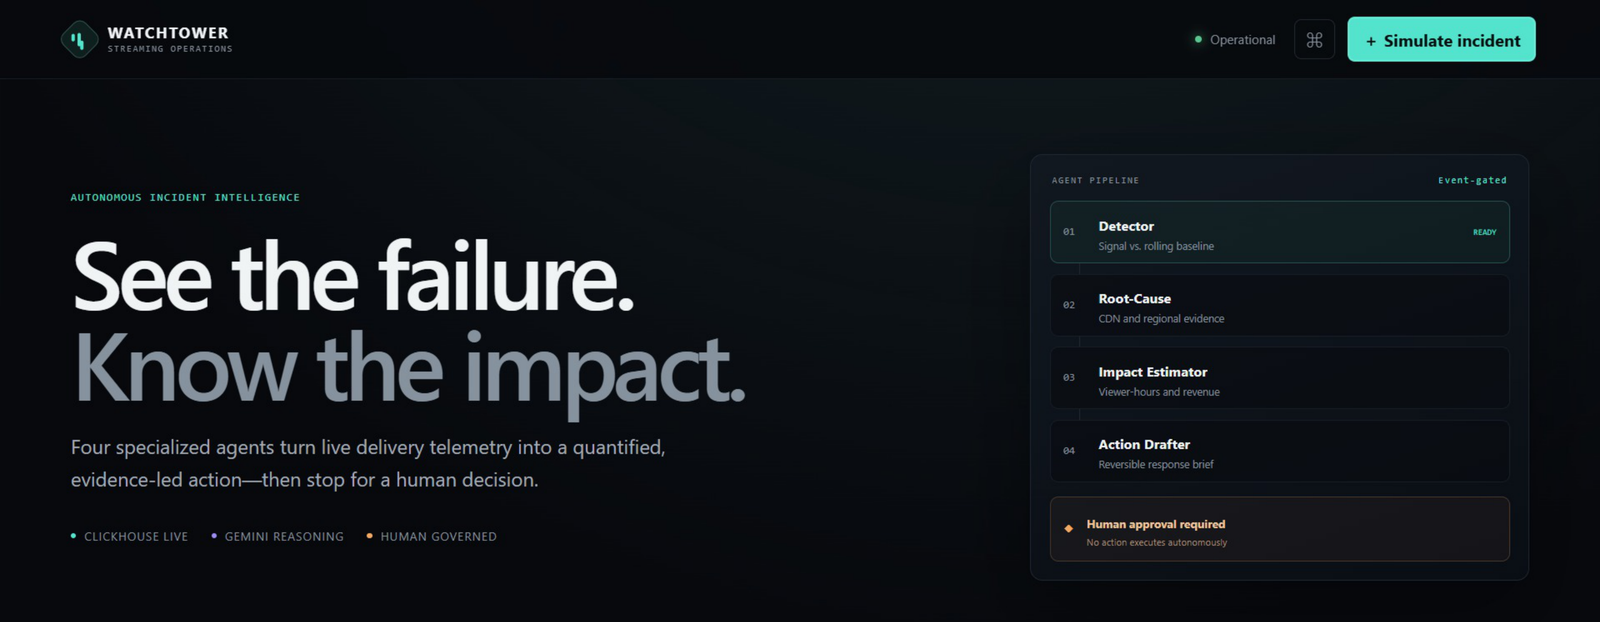
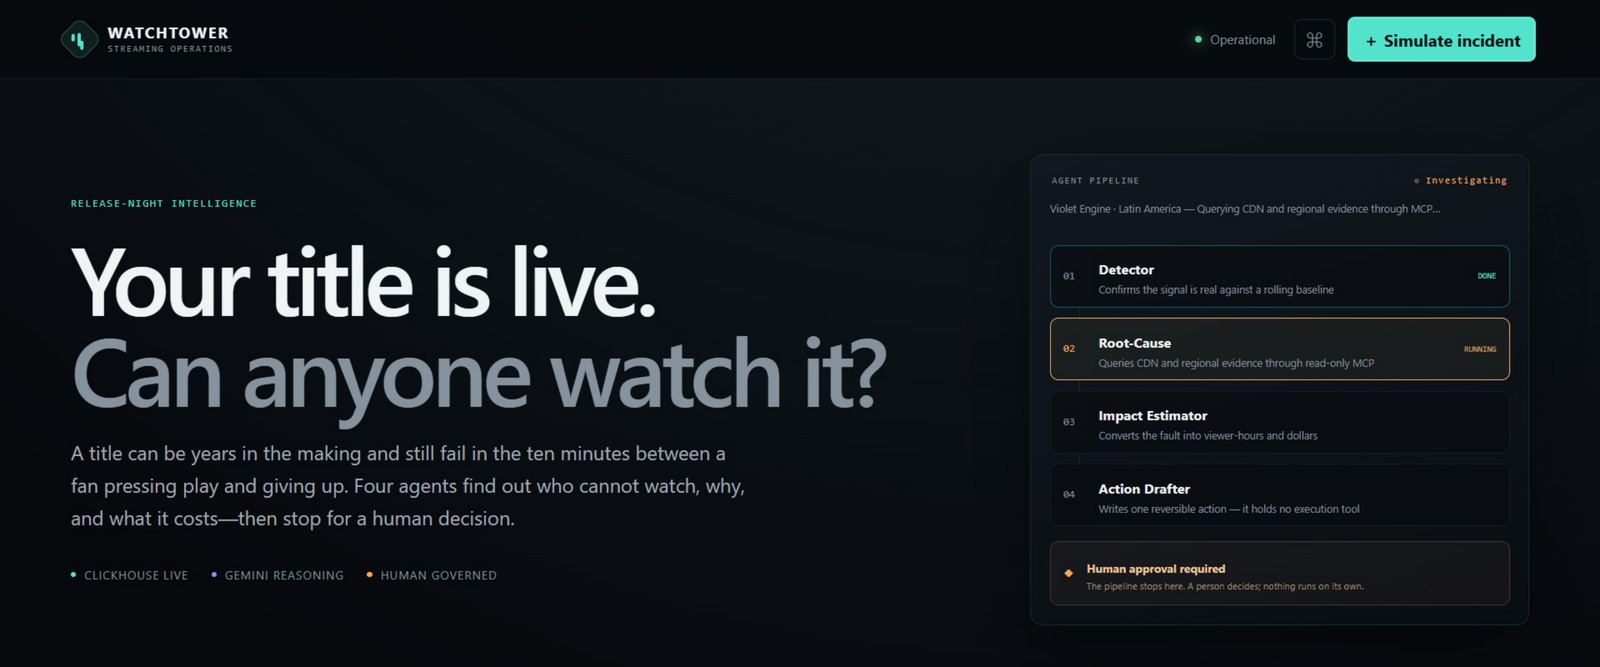
Cap the published key, and document every control
The review key is discoverable by anyone, so its blast radius is now bounded
on the server rather than by obscurity. A hard daily ceiling on new
investigations backs the existing burst limit, so a public credential can
never run up an unbounded model bill. Recording a decision stays unlimited,
because a reviewer must always be able to finish the loop they started.

The key is also no longer presented to every visitor. It sits behind a
collapsed disclosure addressed to reviewers, alongside a plain statement of
what it can and cannot do: four endpoints, no read or delete, and no
execution tool anywhere in the system.

What it could ever do was checked rather than assumed. The database identity
behind it holds SELECT and INSERT only, so nothing can be altered or
destroyed; the entire API is six endpoints with no SQL passthrough; and the
worst outcome available is noise plus bounded model spend.

docs/WALKTHROUGH.md explains the dashboard element by element -- what each
number means, what each dropdown does, what happens on click, and why the
pipeline stops where it does. Screenshots are refreshed from a capture that
caught the agents mid-investigation.

diff --git a/watchtower/static/index.html b/watchtower/static/index.html
@@ -110,12 +110,12 @@
     <form method="dialog" class="dialog-card compact" id="settingsForm">
       <div class="dialog-head"><div><span class="section-label">DEMO ACCESS</span><h2>Operator key</h2></div><button value="cancel" aria-label="Close">×</button></div>
       <p>State-changing controls require a key. It stays in this browser only and is never sent anywhere except this deployment.</p>
-      <div class="judge-note">
-        <strong>Reviewing this project?</strong>
-        <p>Use the shared demo key <code id="demoKey">watchtower-judge-demo</code> to run the full loop yourself: inject an anomaly, watch the four agents, then approve or dismiss it.</p>
-        <p class="judge-note-limit">Rate limited so a public key cannot run up model cost. Approving records a decision — it never executes anything.</p>
-        <button type="button" id="useDemoKey" class="ghost-button">Use demo key</button>
-      </div>
+      <details class="judge-note">
+        <summary>Reviewing this project? Get the review key</summary>
+        <p>The shared review key is <code id="demoKey">watchtower-judge-demo</code>. It runs the full loop: arm an anomaly, watch the four agents, then approve or dismiss.</p>
+        <p class="judge-note-limit">It is separate from this deployment&rsquo;s operator key. Starting an investigation is rate limited and capped daily so a public key cannot run up model cost; recording a decision never is. It reaches four endpoints, can neither read nor delete anything, and no execution tool exists anywhere in the system.</p>
+        <button type="button" id="useDemoKey" class="ghost-button">Fill it in</button>
+      </details>
       <label>Key<input id="adminToken" type="password" autocomplete="off" placeholder="Paste a key"></label>
       <div class="dialog-actions"><button value="cancel" class="ghost-button">Cancel</button><button type="submit" class="primary-button">Save locally</button></div>
     </form>

diff --git a/watchtower/static/styles.css b/watchtower/static/styles.css
@@ -89,3 +89,8 @@ dialog { width: min(560px, calc(100% - 30px)); padding: 0; border: 0; border-rad
 .agent-step.working { border-color: var(--amber); background: rgba(245,180,80,.06); }
 .agent-step.working i { color: var(--amber); animation: railPulse 1s ease-in-out infinite; }
 .agent-step.working span { color: var(--amber); }
+.judge-note summary { cursor: pointer; font-size: 11px; color: var(--cyan); list-style: none; padding: 2px 0; }
+.judge-note summary::-webkit-details-marker { display: none; }
+.judge-note summary::before { content: "▸ "; }
+.judge-note[open] summary::before { content: "▾ "; }
+.judge-note[open] summary { margin-bottom: 8px; }

diff --git a/watchtower/api.py b/watchtower/api.py
@@ -94,6 +94,13 @@ def create_app(runtime: WatchtowerRuntime | None = None) -> FastAPI:
             if active_settings.watchtower_demo_token
             else None
         )
+        # A published key is discoverable by anyone, so the burst limit is
+        # backed by a hard ceiling on a day's model spend.
+        app.state.demo_daily_limiter = (
+            SlidingWindowLimiter(active_settings.watchtower_demo_daily_limit, 86400)
+            if active_settings.watchtower_demo_token
+            else None
+        )
         if app.state.runtime.settings.is_production:
             # Cloud Run must begin listening before a sleeping remote datastore
             # finishes waking. Readiness and operational endpoints remain closed
@@ -216,6 +223,18 @@ def create_app(runtime: WatchtowerRuntime | None = None) -> FastAPI:
         """
         if credential != "demo":
             return
+        daily = request.app.state.demo_daily_limiter
+        if daily is not None and not daily.try_acquire():
+            raise HTTPException(
+                status_code=status.HTTP_429_TOO_MANY_REQUESTS,
+                detail=(
+                    "The shared demo key has reached its daily ceiling on new "
+                    "investigations. This cap exists so a public key can never run up an "
+                    "unbounded model bill. Run WatchTower locally with docker compose for "
+                    "unlimited use, or use the deployment's own operator key."
+                ),
+                headers={"Retry-After": str(daily.retry_after_seconds())},
+            )
         limiter = request.app.state.demo_limiter
         if limiter is not None and not limiter.try_acquire():
             raise HTTPException(

diff --git a/tests/test_demo_access.py b/tests/test_demo_access.py
@@ -187,3 +187,34 @@ def test_a_decision_still_needs_a_valid_key() -> None:
     with client_for() as client:
         assert decide(client, None).status_code == 401
         assert decide(client, "wrong").status_code == 401
+
+
+def test_a_daily_ceiling_bounds_the_published_key() -> None:
+    """A published key is discoverable, so the day's model spend is capped."""
+    with client_for(
+        watchtower_demo_rate_limit=100,
+        watchtower_demo_rate_window_seconds=600,
+        watchtower_demo_daily_limit=3,
+    ) as client:
+        for _ in range(3):
+            assert tick(client, DEMO).status_code == 200
+        blocked = tick(client, DEMO)
+        assert blocked.status_code == 429
+        assert "daily ceiling" in blocked.json()["detail"]
+
+
+def test_the_daily_ceiling_never_applies_to_the_operator() -> None:
+    with client_for(watchtower_demo_daily_limit=1) as client:
+        assert tick(client, DEMO).status_code == 200
+        assert tick(client, DEMO).status_code == 429
+        for _ in range(4):
+            assert tick(client, OPERATOR).status_code == 200
+
+
+def test_the_daily_ceiling_never_blocks_a_decision() -> None:
+    """A judge must always be able to finish the loop they started."""
+    with client_for(watchtower_demo_daily_limit=1) as client:
+        assert tick(client, DEMO).status_code == 200
+        assert tick(client, DEMO).status_code == 429
+        for _ in range(4):
+            assert decide(client, DEMO).status_code != 429

diff --git a/watchtower/config.py b/watchtower/config.py
@@ -36,6 +36,8 @@ class Settings(BaseSettings):
     watchtower_demo_token: SecretStr | None = None
     watchtower_demo_rate_limit: int = Field(default=10, ge=1, le=100)
     watchtower_demo_rate_window_seconds: int = Field(default=600, ge=30, le=3600)
+    # A published key is discoverable, so the day's model spend is capped too.
+    watchtower_demo_daily_limit: int = Field(default=80, ge=1, le=5000)
 
     clickhouse_host: str = "localhost"
     clickhouse_port: int = Field(default=8123, ge=1, le=65535)

diff --git a/docs/WALKTHROUGH.md b/docs/WALKTHROUGH.md
@@ -1,0 +1,163 @@
+# WatchTower walkthrough — every control, and what it means
+
+This explains the dashboard element by element: what each thing is, what the numbers mean, what
+happens when you click, and why it is designed that way. Nothing here needs an account.
+
+**Live app:** <https://watchtower-283557821298.us-central1.run.app>
+
+The service scales to zero, so the first request after an idle period takes roughly 30 seconds while
+readiness reports `503`. That is the designed startup contract, not a fault.
+
+---
+
+## 1. The top bar
+
+| Control | What it is |
+|---|---|
+| **● Operational** | Live health. Green means the app reached ClickHouse and the last refresh succeeded. If it reads **Telemetry unavailable**, the datastore is waking or unreachable — wait and it recovers. |
+| **⌘** | The key panel. State-changing controls need a key; reading never does. |
+| **＋ Simulate incident** | Arms a synthetic fault so you can watch the whole loop end to end. |
+
+### The key panel (⌘)
+
+Two different credentials exist, on purpose.
+
+- **Operator key** — held only by the deployment owner, stored in Google Secret Manager, never in the
+  repository. Unlimited.
+- **Review key** — published so anyone evaluating the project can run the full loop:
+  `watchtower-judge-demo`. Open *Reviewing this project? Get the review key* and press **Fill it in**.
+
+The key is stored in `sessionStorage` — your browser tab only. It is sent to this deployment and
+nowhere else, and it disappears when you close the tab.
+
+The review key reaches exactly four endpoints (arm, advance, approve, dismiss). It cannot read or
+delete anything: the database identity behind it holds `SELECT, INSERT` only. Starting an
+investigation is rate limited and capped daily so a public key cannot run up an unbounded model
+bill; **recording a decision is never limited**, because finishing the loop is the point.
+
+---
+
+## 2. The hero and the agent pipeline
+
+The right-hand rail is the four-stage workflow, and it is **live** — not a diagram.
+
+| Stage | What it does |
+|---|---|
+| **01 Detector** | Confirms the signal is real by comparing a five-minute live window against the preceding sixty-minute baseline. Deterministic Python, not a model. |
+| **02 Root-Cause** | Queries CDN-node and regional evidence through the official read-only ClickHouse MCP server, then ranks the likely cause. |
+| **03 Impact Estimator** | Converts the fault into affected sessions, lost viewer-hours, and dollars. The arithmetic is auditable code; the model only explains it. |
+| **04 Action Drafter** | Writes one specific, reversible action. **It holds no execution tool** — there is no function anywhere in the codebase that could act on it. |
+| **◆ Human approval required** | The pipeline stops here, always. |
+
+**Reading the rail while it runs.** The label changes from `Event-gated` to a pulsing
+`● Investigating`, and a line names what is happening — for example
+*Violet Engine · Latin America — Querying CDN and regional evidence through MCP…*. Completed stages
+show **DONE** in cyan; the current one shows **RUNNING** in amber. A full run takes roughly 20–30
+seconds because four real Gemini calls happen.
+
+**Event-gated matters.** Gemini is not called on every tick. Deterministic rules decide whether a
+material anomaly exists; only then do the agents run. That keeps reasoning cheap, auditable, and
+honest — the model never invents an incident.
+
+---
+
+## 3. The metric strip
+
+| Metric | Meaning |
+|---|---|
+| **LIVE VIEWS · 5M** | Views in the last five minutes across all twelve titles and five regions. Underneath: how many telemetry rows are retained. |
+| **PLAYBACK STARTS** | Play presses in the same window. Starts always exceed views — some starts never become a watched view, which is exactly the failure WatchTower looks for. |
+| **BUFFER RATE** | Buffering events divided by starts. Healthy sits near 2%. Detection fires above 8% *and* at least 2.5× baseline. |
+| **AD IMPRESSIONS** | Ads delivered against the fictional catalog. |
+
+---
+
+## 4. Live signal and guardrails
+
+**Audience activity** plots views per minute for the last thirty minutes, with *Updated Ns ago*
+proving the feed is live. Timestamps are marked UTC by the API, so the reading is correct in every
+timezone.
+
+**Guardrails** is the trust panel, and every row is a real constraint:
+
+| Row | Meaning |
+|---|---|
+| Data plane · **ClickHouse** | All analytics run in ClickHouse Cloud. Nothing is computed from memory. |
+| Agent access · **Read-only MCP** | Agents reach data only through the official `mcp-clickhouse` server, over stdio, never exposed to the network. |
+| AI provider · **Vertex AI** | Gemini 2.5 Flash through Vertex AI. No non-Google AI SDK exists in the runtime; a passing test enforces it. |
+| Action policy · **Human only** | No autonomous execution exists. |
+
+---
+
+## 5. The incident queue — "Decisions, not alerts"
+
+The counter on the right shows how many incidents await review.
+
+Each card reads: **signal type · region**, the **title**, the **CDN node** and how long ago it was
+detected, then **estimated impact** and **viewer-hours**, and a status pill:
+
+- **PENDING APPROVAL** (amber) — waiting for a human.
+- **APPROVED** (green) — a person accepted the recommendation. *The decision was recorded; nothing
+  was executed.*
+- **DISMISSED** — a person rejected it.
+
+Press **Review →** to open the full incident:
+
+- **Viewer-hours, affected sessions, estimated revenue** — the audited numbers.
+- **Executive brief** — written by Gemini from the evidence, including the observed rate, the
+  baseline, the deviation percentage and the confidence.
+- **Agent trace** — all four stages with real durations, so you can see where the time went.
+- **Pending human decision** — the drafted action, and the two buttons.
+
+---
+
+## 6. Simulating an incident
+
+Press **＋ Simulate incident**.
+
+| Field | What to choose |
+|---|---|
+| **Fictional title** | Any of the twelve original titles. All are invented; none are real media. |
+| **Region** | North America, Europe, MENA, South Asia, Latin America. Each has its own CDN nodes and its own time-of-day traffic curve. |
+| **Signal** | **Buffer spike** — degraded CDN delivery. **View drop** — regional playback collapse. **Ad failure** — delivery error surge. |
+
+Press **Arm simulation**. The anomaly is written across the live detection window, so the next pass
+detects it immediately rather than averaging it away, and all three signal types behave the same.
+Watch the rail; roughly 20–30 seconds later a new incident appears in the queue.
+
+Everything is synthetic. No real platform, CDN, or media catalog is touched at any point.
+
+---
+
+## 7. Approving or dismissing
+
+Open an incident and choose. **Approve** records that a human accepted the recommendation.
+**Dismiss** records that a human rejected it. Both are versioned and persisted in ClickHouse with a
+note.
+
+This is the part worth being precise about: **approval is a record, not an execution.** WatchTower
+never calls a CDN, an ad platform, or a playback system. The Action Drafter has no tool with which
+to do so, and a test asserts that no such function exists anywhere in the runtime. The job ends at
+giving a person everything they need to decide quickly.
+
+---
+
+## 8. The monitored catalog
+
+Twelve original titles with code-native gradient covers. There is no third-party media data, poster
+art, studio asset, or external image request anywhere in the product — every cover is generated from
+two colours in code.
+
+---
+
+## 9. If something looks wrong
+
+| Symptom | What it means |
+|---|---|
+| Page is slow on the first load | Cold start from zero instances. Roughly 30 seconds, once. |
+| **Telemetry unavailable** | ClickHouse Cloud is waking. It recovers on its own; refresh after a moment. |
+| A control says a key is required | Open **⌘** and paste the review key. |
+| `429` when arming | Rate limit or the daily ceiling on the shared key. Recording a decision still works. Run locally with `docker compose` for unlimited use. |
+| Arming produced no incident | Rare. Arm once more; detection needs the window to clear its threshold. |
+
+See [TESTING.md](TESTING.md) to verify any of this yourself, including from the command line.

diff --git a/README.md b/README.md
@@ -37,24 +37,28 @@ readiness reports `503`.
 > WatchTower never executes an operational recommendation. Approval records a human decision; it
 > does not call a CDN, ad platform, playback system, or other downstream service.
 
-![WatchTower dashboard: live telemetry and the four-stage agent pipeline](docs/images/01-dashboard-hero.png)
+![WatchTower dashboard: the release-night view with the agent pipeline running](docs/images/01-dashboard-hero.png)
 
-Four specialized agents turn live delivery telemetry into a quantified, evidence-led action — then
-stop for a human decision. The pipeline is event-gated: Gemini is not called on every tick.
+![The four agents mid-investigation: Detector complete, Root-Cause querying ClickHouse through MCP](docs/images/02-agents-working.png)
 
-![Live signal chart and the guardrail panel](docs/images/02-live-signal.png)
+**You watch the agents work.** Each stage reports as it finishes, names the title and region it is
+working on, and says what it is doing right now. Then the pipeline stops. The Action Drafter holds no
+execution tool — approving records a human decision and calls nothing downstream.
 
-Every reading comes from ClickHouse. Agents reach the data only through the official read-only
-`mcp-clickhouse` server, and the action agent has no execution tool of any kind.
+![Live signal chart and the guardrail panel](docs/images/03-live-signal.png)
 
-![Incident queue showing a buffer spike with quantified impact awaiting approval](docs/images/03-incident-queue.png)
+Every reading comes from ClickHouse. Agents reach it only through the official read-only
+`mcp-clickhouse` server, behind middleware that rejects mutations, comments, multiple statements and
+unbounded results.
 
-An incident is a decision, not an alert. Each one carries a root cause traced to a specific CDN node,
-an estimated dollar impact, and lost viewer-hours — and waits for a person.
+![Incident queue: buffer spikes, view drops and ad failures with quantified impact awaiting approval](docs/images/04-incident-queue.png)
 
-![The twelve original fictional titles with code-native gradient artwork](docs/images/04-fictional-catalog.png)
+An incident is a decision, not an alert. Each carries a root cause traced to a named CDN node, lost
+viewer-hours, and dollars at risk — and waits for a person.
 
-All twelve titles, descriptions, and covers are original and fictional. The artwork is generated from
+![The twelve original fictional titles with code-native gradient artwork](docs/images/05-fictional-catalog.png)
+
+All twelve titles, descriptions and covers are original and fictional. The artwork is generated from
 CSS gradients in code — there is no third-party media data, poster art, or external image request
 anywhere in the product.
 
@@ -199,7 +203,10 @@ python -m pytest tests/test_clickhouse_integration.py -m integration -vv
 `tests/test_production_contract.py` pins every defect that once reached a live Cloud Run revision,
 and asserts that no execution tool exists anywhere in the runtime.
 
-**[docs/TESTING.md](docs/TESTING.md) is the full guide** — five levels, from a five-second lint to
+**[docs/WALKTHROUGH.md](docs/WALKTHROUGH.md) explains every control on the dashboard** — what each
+number means, what each dropdown does, and what happens when you click.
+
+**[docs/TESTING.md](docs/TESTING.md) is the full verification guide** — five levels, from a five-second lint to
 verifying the human approval boundary against the public deployment, with what each one proves.
 
 ## Configuration
